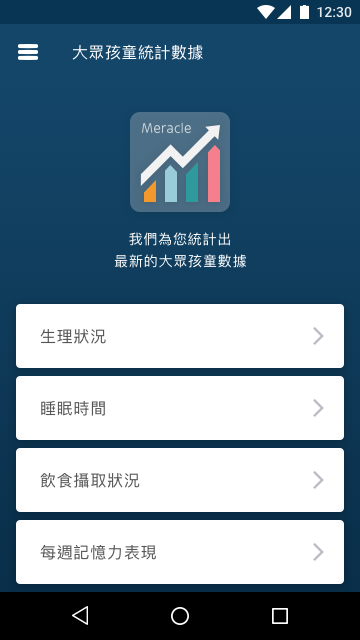
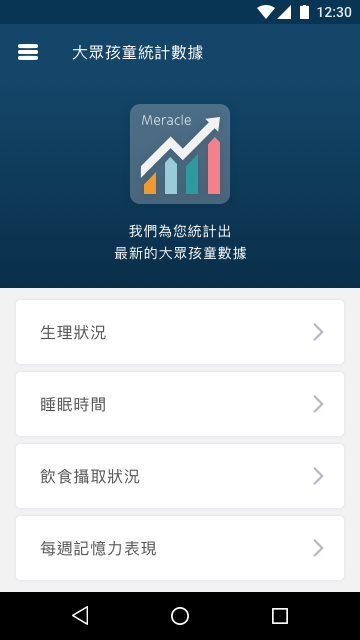
s

diff --git a/page_public/index.html b/page_public/index.html
@@ -1656,7 +1656,7 @@ I18N['zh-tw'] = {
     init.prototype = SMApp.fn;
     window.SMApp = SMApp;
 })(window);
-$(function(){ SMApp({"scale":"1","unit":"px","colorFormat":"color-hex","artboards":[{"layers":[{"objectID":"83045C19-1796-460F-8B21-374DA685168A","type":"shape","name":"bg_darkBlue","rect":{"x":0,"y":80,"width":360,"height":512},"rotation":0,"radius":0,"borders":[],"fills":[{"fillType":"gradient","gradient":{"type":"linear","from":{"x":0.463243305683136,"y":0},"to":{"x":0.46324329922059615,"y":1.044392124421861},"colorStops":[{"color":{"r":20,"g":70,"b":105,"a":1,"color-hex":"#144669 100%","argb-hex":"#FF144669","css-rgba":"rgba(20,70,105,1)","ui-color":"(r:0.08 g:0.27 b:0.41 a:1.00)"},"position":0},{"color":{"r":9,"g":45,"b":71,"a":1,"color-hex":"#092D47 100%","argb-hex":"#FF092D47","css-rgba":"rgba(9,45,71,1)","ui-color":"(r:0.03 g:0.18 b:0.28 a:1.00)"},"position":1}]}}],"shadows":[],"opacity":1,"styleName":"","css":["background-image: linear-gradient(-180deg, #144669 0%, #092D47 100%);"]},{"objectID":"A15F91AF-730A-4074-A24E-D45C4149D91A","type":"symbol","name":"Bar/Header","rect":{"x":0,"y":24,"width":360,"height":56},"rotation":0,"radius":0,"borders":[],"fills":[],"shadows":[],"opacity":1,"styleName":""},{"objectID":"F7567344-B48B-42DA-A3CC-50CE141C64CD","type":"shape","name":"bg","rect":{"x":0,"y":24,"width":360,"height":56},"rotation":0,"radius":0,"borders":[],"fills":[{"fillType":"color","color":{"r":20,"g":70,"b":105,"a":1,"color-hex":"#144669 100%","argb-hex":"#FF144669","css-rgba":"rgba(20,70,105,1)","ui-color":"(r:0.08 g:0.27 b:0.41 a:1.00)"}}],"shadows":[],"opacity":1,"styleName":"","css":["background: #144669;"]},{"objectID":"7633D35D-9322-4228-9C07-ACD3E6F8156D","type":"symbol","name":"Left Icon","rect":{"x":16,"y":40,"width":24,"height":24},"rotation":0,"radius":0,"borders":[],"fills":[],"shadows":[],"opacity":1,"styleName":"","exportable":[{"name":"Icon/menu","format":"png","path":"Icon/menu.png"}]},{"objectID":"CC57C13F-2C1C-4E02-B459-765E72797C45","type":"text","name":"Title","rect":{"x":72,"y":40,"width":132,"height":24},"rotation":0,"radius":0,"borders":[],"fills":[],"shadows":[],"opacity":1,"styleName":"White/16px regular","content":"大眾孩童統計數據","color":{"r":255,"g":255,"b":255,"a":1,"color-hex":"#FFFFFF 100%","argb-hex":"#FFFFFFFF","css-rgba":"rgba(255,255,255,1)","ui-color":"(r:1.00 g:1.00 b:1.00 a:1.00)"},"fontSize":16,"fontFace":"Roboto-Regular","textAlign":"left","letterSpacing":0.5,"lineHeight":24,"css":["font-family: Roboto-Regular;","font-size: 16px;","color: #FFFFFF;","letter-spacing: 0.5px;","line-height: 24px;"]},{"objectID":"1D9038E2-0B4B-4B89-8FD6-5779EE9AC07C","type":"symbol","name":"Bars/Status bar","rect":{"x":0,"y":0,"width":360,"height":24},"rotation":0,"radius":0,"borders":[],"fills":[],"shadows":[],"opacity":1,"styleName":""},{"objectID":"92B9CC3F-C79D-4213-845D-358967D93061","type":"shape","name":"status bar bg","rect":{"x":0,"y":0,"width":360,"height":24},"rotation":0,"radius":0,"borders":[],"fills":[{"fillType":"color","color":{"r":9,"g":53,"b":84,"a":1,"color-hex":"#093554 100%","argb-hex":"#FF093554","css-rgba":"rgba(9,53,84,1)","ui-color":"(r:0.04 g:0.21 b:0.33 a:1.00)"}}],"shadows":[],"opacity":1,"styleName":"","css":["background: #093554;"]},{"objectID":"C721A454-854E-449C-85BC-A123A8EC1018","type":"text","name":"12:30","rect":{"x":316,"y":4,"width":36,"height":16},"rotation":0,"radius":0,"borders":[],"fills":[{"fillType":"color","color":{"r":255,"g":255,"b":255,"a":1,"color-hex":"#FFFFFF 100%","argb-hex":"#FFFFFFFF","css-rgba":"rgba(255,255,255,1)","ui-color":"(r:1.00 g:1.00 b:1.00 a:1.00)"}}],"shadows":[],"opacity":1,"styleName":"","content":"12:30","color":{"r":0,"g":0,"b":0,"a":1,"color-hex":"#000000 100%","argb-hex":"#FF000000","css-rgba":"rgba(0,0,0,1)","ui-color":"(r:0.00 g:0.00 b:0.00 a:1.00)"},"fontSize":14,"fontFace":"Roboto-Medium","textAlign":"right","letterSpacing":0,"lineHeight":16,"css":["font-family: Roboto-Medium;","font-size: 14px;","color: #000000;"]},{"objectID":"EA577749-950A-4B95-AE91-1471809E4D5C","type":"shape","name":"bounds","rect":{"x":297,"y":4,"width":16,"height":16},"rotation":0,"radius":0,"borders":[],"fills":[],"shadows":[],"opacity":1,"styleName":""},{"objectID":"04509B03-1C82-4E70-A60B-563CB5EFDEED","type":"shape","name":"Shape","rect":{"x":300,"y":5,"width":9,"height":14},"rotation":0,"radius":0,"borders":[],"fills":[{"fillType":"color","color":{"r":255,"g":255,"b":255,"a":1,"color-hex":"#FFFFFF 100%","argb-hex":"#FFFFFFFF","css-rgba":"rgba(255,255,255,1)","ui-color":"(r:1.00 g:1.00 b:1.00 a:1.00)"}}],"shadows":[],"opacity":1,"styleName":"","css":["background: #FFFFFF;"]},{"objectID":"7EBD03E0-7CF8-4DF4-84D6-87FC9A84FB1E","type":"shape","name":"bounds","rect":{"x":277,"y":4,"width":16,"height":16},"rotation":0,"radius":0,"borders":[],"fills":[],"shadows":[],"opacity":1,"styleName":""},{"objectID":"CBB32A07-0D54-40D4-A69F-2B64CBF676E5","type":"shape","name":"Shape","rect":{"x":277,"y":5,"width":14,"height":14},"rotation":0,"radius":0,"borders":[],"fills":[{"fillType":"color","color":{"r":255,"g":255,"b":255,"a":1,"color-hex":"#FFFFFF 100%","argb-hex":"#FFFFFFFF","css-rgba":"rgba(255,255,255,1)","ui-color":"(r:1.00 g:1.00 b:1.00 a:1.00)"}}],"shadows":[],"opacity":1,"styleName":"","css":["background: #FFFFFF;"]},{"objectID":"1C63ECF8-A21C-468D-A2E0-36C0B9689898","type":"shape","name":"bounds","rect":{"x":258,"y":4,"width":16,"height":16},"rotation":0,"radius":0,"borders":[],"fills":[],"shadows":[],"opacity":1,"styleName":""},{"objectID":"7A5D021E-5761-4B5B-A926-8A58D348CA3B","type":"shape","name":"Shape","rect":{"x":257,"y":5,"width":18,"height":14},"rotation":0,"radius":0,"borders":[],"fills":[{"fillType":"color","color":{"r":255,"g":255,"b":255,"a":1,"color-hex":"#FFFFFF 100%","argb-hex":"#FFFFFFFF","css-rgba":"rgba(255,255,255,1)","ui-color":"(r:1.00 g:1.00 b:1.00 a:1.00)"}}],"shadows":[],"opacity":1,"styleName":"","css":["background: #FFFFFF;"]},{"objectID":"C77BD0D6-963F-44D7-956D-10485FE57C9B","type":"slice","name":"logo","rect":{"x":130,"y":112,"width":100,"height":100},"exportable":[{"name":"logo","format":"png","path":"logo.png"}]},{"objectID":"40407976-F652-427E-B751-6480BF07EBBD","type":"text","name":"我們為您統計出 最新的大眾孩童數據","rect":{"x":114,"y":228,"width":133,"height":44},"rotation":0,"radius":0,"borders":[],"fills":[],"shadows":[],"opacity":1,"styleName":"","content":"我們為您統計出\n最新的大眾孩童數據","color":{"r":255,"g":255,"b":255,"a":1,"color-hex":"#FFFFFF 100%","argb-hex":"#FFFFFFFF","css-rgba":"rgba(255,255,255,1)","ui-color":"(r:1.00 g:1.00 b:1.00 a:1.00)"},"fontSize":14,"fontFace":"PingFangTC-Regular","textAlign":"center","letterSpacing":0.800000011920929,"lineHeight":22,"css":["font-family: PingFangTC-Regular;","font-size: 14px;","color: #FFFFFF;","letter-spacing: 0.8px;","line-height: 22px;"]},{"objectID":"2868F988-7A5F-4BA3-833B-8724A23B7C74","type":"shape","name":"Bg_white","rect":{"x":16,"y":304,"width":328,"height":64},"rotation":0,"radius":4,"borders":[],"fills":[{"fillType":"color","color":{"r":255,"g":255,"b":255,"a":1,"color-hex":"#FFFFFF 100%","argb-hex":"#FFFFFFFF","css-rgba":"rgba(255,255,255,1)","ui-color":"(r:1.00 g:1.00 b:1.00 a:1.00)"}}],"shadows":[{"type":"outer","offsetX":0,"offsetY":1,"blurRadius":8,"spread":0,"color":{"r":0,"g":0,"b":0,"a":0.25,"color-hex":"#000000 25%","argb-hex":"#40000000","css-rgba":"rgba(0,0,0,0.25)","ui-color":"(r:0.00 g:0.00 b:0.00 a:0.25)"}}],"opacity":1,"styleName":"","css":["background: #FFFFFF;","box-shadow: 0 1px 8px 0 rgba(0,0,0,0.25);","border-radius: 4px;"]},{"objectID":"FA62EC78-876C-4F2A-BC1C-7BB86B0B6639","type":"symbol","name":"Icon/arrow","rect":{"x":308,"y":326,"width":20,"height":20},"rotation":0,"radius":0,"borders":[],"fills":[],"shadows":[],"opacity":0.5,"styleName":"","css":["opacity: 0.5;"],"exportable":[{"name":"Icon/arrow_gray","format":"png","path":"Icon/arrow_gray.png"}]},{"objectID":"8F0327BF-8727-42B0-B9F8-931CD81E6488","type":"text","name":"生理狀況","rect":{"x":40,"y":322,"width":67,"height":28},"rotation":0,"radius":0,"borders":[],"fills":[],"shadows":[],"opacity":1,"styleName":"","content":"生理狀況","color":{"r":85,"g":85,"b":85,"a":1,"color-hex":"#555555 100%","argb-hex":"#FF555555","css-rgba":"rgba(85,85,85,1)","ui-color":"(r:0.33 g:0.33 b:0.33 a:1.00)"},"fontSize":16,"fontFace":"Roboto-Regular","textAlign":"left","letterSpacing":0.800000011920929,"lineHeight":28,"css":["font-family: Roboto-Regular;","font-size: 16px;","color: #555555;","letter-spacing: 0.8px;","line-height: 28px;"]},{"objectID":"42AF091D-2C12-4D38-AF89-E0ED21E13B95","type":"shape","name":"Bg_white","rect":{"x":16,"y":376,"width":328,"height":64},"rotation":0,"radius":4,"borders":[],"fills":[{"fillType":"color","color":{"r":255,"g":255,"b":255,"a":1,"color-hex":"#FFFFFF 100%","argb-hex":"#FFFFFFFF","css-rgba":"rgba(255,255,255,1)","ui-color":"(r:1.00 g:1.00 b:1.00 a:1.00)"}}],"shadows":[{"type":"outer","offsetX":0,"offsetY":1,"blurRadius":8,"spread":0,"color":{"r":0,"g":0,"b":0,"a":0.25,"color-hex":"#000000 25%","argb-hex":"#40000000","css-rgba":"rgba(0,0,0,0.25)","ui-color":"(r:0.00 g:0.00 b:0.00 a:0.25)"}}],"opacity":1,"styleName":"","css":["background: #FFFFFF;","box-shadow: 0 1px 8px 0 rgba(0,0,0,0.25);","border-radius: 4px;"]},{"objectID":"FA62EC78-876C-4F2A-BC1C-7BB86B0B6639","type":"symbol","name":"Icon/arrow","rect":{"x":308,"y":398,"width":20,"height":20},"rotation":0,"radius":0,"borders":[],"fills":[],"shadows":[],"opacity":0.5,"styleName":"","css":["opacity: 0.5;"],"exportable":[{"name":"Icon/arrow_gray","format":"png","path":"Icon/arrow_gray.png"}]},{"objectID":"8B561EDD-7EC6-4B91-AB26-ABED9B088732","type":"text","name":"睡眠時間","rect":{"x":40,"y":394,"width":68,"height":28},"rotation":0,"radius":0,"borders":[],"fills":[],"shadows":[],"opacity":1,"styleName":"","content":"睡眠時間","color":{"r":85,"g":85,"b":85,"a":1,"color-hex":"#555555 100%","argb-hex":"#FF555555","css-rgba":"rgba(85,85,85,1)","ui-color":"(r:0.33 g:0.33 b:0.33 a:1.00)"},"fontSize":16,"fontFace":"PingFangTC-Regular","textAlign":"left","letterSpacing":0.800000011920929,"lineHeight":28,"css":["font-family: PingFangTC-Regular;","font-size: 16px;","color: #555555;","letter-spacing: 0.8px;","line-height: 28px;"]},{"objectID":"064F64DB-C213-42A8-8EAD-833A1D33944C","type":"shape","name":"Bg_white","rect":{"x":16,"y":448,"width":328,"height":64},"rotation":0,"radius":4,"borders":[],"fills":[{"fillType":"color","color":{"r":255,"g":255,"b":255,"a":1,"color-hex":"#FFFFFF 100%","argb-hex":"#FFFFFFFF","css-rgba":"rgba(255,255,255,1)","ui-color":"(r:1.00 g:1.00 b:1.00 a:1.00)"}}],"shadows":[{"type":"outer","offsetX":0,"offsetY":1,"blurRadius":8,"spread":0,"color":{"r":0,"g":0,"b":0,"a":0.25,"color-hex":"#000000 25%","argb-hex":"#40000000","css-rgba":"rgba(0,0,0,0.25)","ui-color":"(r:0.00 g:0.00 b:0.00 a:0.25)"}}],"opacity":1,"styleName":"","css":["background: #FFFFFF;","box-shadow: 0 1px 8px 0 rgba(0,0,0,0.25);","border-radius: 4px;"]},{"objectID":"FA62EC78-876C-4F2A-BC1C-7BB86B0B6639","type":"symbol","name":"Icon/arrow","rect":{"x":308,"y":470,"width":20,"height":20},"rotation":0,"radius":0,"borders":[],"fills":[],"shadows":[],"opacity":0.5,"styleName":"","css":["opacity: 0.5;"],"exportable":[{"name":"Icon/arrow_gray","format":"png","path":"Icon/arrow_gray.png"}]},{"objectID":"9E14A6C8-799E-419E-A6A5-F54C0B76CCD2","type":"text","name":"飲食攝取狀況","rect":{"x":40,"y":466,"width":101,"height":28},"rotation":0,"radius":0,"borders":[],"fills":[],"shadows":[],"opacity":1,"styleName":"","content":"飲食攝取狀況","color":{"r":85,"g":85,"b":85,"a":1,"color-hex":"#555555 100%","argb-hex":"#FF555555","css-rgba":"rgba(85,85,85,1)","ui-color":"(r:0.33 g:0.33 b:0.33 a:1.00)"},"fontSize":16,"fontFace":"PingFangTC-Regular","textAlign":"left","letterSpacing":0.800000011920929,"lineHeight":28,"css":["font-family: PingFangTC-Regular;","font-size: 16px;","color: #555555;","letter-spacing: 0.8px;","line-height: 28px;"]},{"objectID":"4D587D8A-DF53-427A-9370-A1EB6244D91D","type":"shape","name":"Bg_white","rect":{"x":16,"y":520,"width":328,"height":64},"rotation":0,"radius":4,"borders":[],"fills":[{"fillType":"color","color":{"r":255,"g":255,"b":255,"a":1,"color-hex":"#FFFFFF 100%","argb-hex":"#FFFFFFFF","css-rgba":"rgba(255,255,255,1)","ui-color":"(r:1.00 g:1.00 b:1.00 a:1.00)"}}],"shadows":[{"type":"outer","offsetX":0,"offsetY":1,"blurRadius":8,"spread":0,"color":{"r":0,"g":0,"b":0,"a":0.25,"color-hex":"#000000 25%","argb-hex":"#40000000","css-rgba":"rgba(0,0,0,0.25)","ui-color":"(r:0.00 g:0.00 b:0.00 a:0.25)"}}],"opacity":1,"styleName":"","css":["background: #FFFFFF;","box-shadow: 0 1px 8px 0 rgba(0,0,0,0.25);","border-radius: 4px;"]},{"objectID":"FA62EC78-876C-4F2A-BC1C-7BB86B0B6639","type":"symbol","name":"Icon/arrow","rect":{"x":308,"y":542,"width":20,"height":20},"rotation":0,"radius":0,"borders":[],"fills":[],"shadows":[],"opacity":0.5,"styleName":"","css":["opacity: 0.5;"],"exportable":[{"name":"Icon/arrow_gray","format":"png","path":"Icon/arrow_gray.png"}]},{"objectID":"AD5B1A65-7499-47D9-BFF6-F38843BDE78C","type":"text","name":"每週記憶力表現","rect":{"x":40,"y":538,"width":118,"height":28},"rotation":0,"radius":0,"borders":[],"fills":[],"shadows":[],"opacity":1,"styleName":"","content":"每週記憶力表現","color":{"r":85,"g":85,"b":85,"a":1,"color-hex":"#555555 100%","argb-hex":"#FF555555","css-rgba":"rgba(85,85,85,1)","ui-color":"(r:0.33 g:0.33 b:0.33 a:1.00)"},"fontSize":16,"fontFace":"PingFangTC-Regular","textAlign":"left","letterSpacing":0.800000011920929,"lineHeight":28,"css":["font-family: PingFangTC-Regular;","font-size: 16px;","color: #555555;","letter-spacing: 0.8px;","line-height: 28px;"]},{"objectID":"13B55EF7-AB18-44F9-B30A-697294326846","type":"shape","name":"nav_bar","rect":{"x":0,"y":592,"width":360,"height":48},"rotation":0,"radius":0,"borders":[],"fills":[],"shadows":[],"opacity":1,"styleName":""}],"notes":[],"pageName":"Page 1","pageObjectID":"D526FE0C-BCEE-4C14-AAE0-85B6CF2F2B53","name":"03-detail1 copy","slug":"page-1-03-detail1-copy","objectID":"99BF4D40-0D8C-4F00-AC37-E6DEFFEDC8B7","width":360,"height":640,"imagePath":"preview/page-1-03-detail1-copy.png"}],"slices":[{"name":"Left Icon","objectID":"7633D35D-9322-4228-9C07-ACD3E6F8156D","rect":{"x":16,"y":40,"width":24,"height":24},"exportable":[{"name":"Icon/menu","format":"png","path":"Icon/menu.png"}]},{"name":"logo","objectID":"C77BD0D6-963F-44D7-956D-10485FE57C9B","rect":{"x":130,"y":112,"width":100,"height":100},"exportable":[{"name":"logo","format":"png","path":"logo.png"}]},{"name":"Icon/arrow","objectID":"FA62EC78-876C-4F2A-BC1C-7BB86B0B6639","rect":{"x":308,"y":326,"width":20,"height":20},"exportable":[{"name":"Icon/arrow_gray","format":"png","path":"Icon/arrow_gray.png"}]}],"colors":[]}) });
+$(function(){ SMApp({"scale":"1","unit":"px","colorFormat":"color-hex","artboards":[{"layers":[{"objectID":"6A2DCCDA-30A8-48F9-8A77-92BEEB7E11F4","type":"shape","name":"bg_darkBlue","rect":{"x":0,"y":80,"width":360,"height":208},"rotation":0,"radius":0,"borders":[],"fills":[{"fillType":"gradient","gradient":{"type":"linear","from":{"x":0.463243305683136,"y":0},"to":{"x":0.46324329922059615,"y":1.044392124421861},"colorStops":[{"color":{"r":20,"g":70,"b":105,"a":1,"color-hex":"#144669 100%","argb-hex":"#FF144669","css-rgba":"rgba(20,70,105,1)","ui-color":"(r:0.08 g:0.27 b:0.41 a:1.00)"},"position":0},{"color":{"r":9,"g":45,"b":71,"a":1,"color-hex":"#092D47 100%","argb-hex":"#FF092D47","css-rgba":"rgba(9,45,71,1)","ui-color":"(r:0.03 g:0.18 b:0.28 a:1.00)"},"position":1}]}}],"shadows":[{"type":"outer","offsetX":0,"offsetY":2,"blurRadius":5,"spread":0,"color":{"r":0,"g":0,"b":0,"a":0.2,"color-hex":"#000000 20%","argb-hex":"#33000000","css-rgba":"rgba(0,0,0,0.2)","ui-color":"(r:0.00 g:0.00 b:0.00 a:0.20)"}}],"opacity":1,"styleName":"","css":["background-image: linear-gradient(-180deg, #144669 0%, #092D47 100%);","box-shadow: 0 2px 5px 0 rgba(0,0,0,0.20);"]},{"objectID":"A15F91AF-730A-4074-A24E-D45C4149D91A","type":"symbol","name":"Bar/Header","rect":{"x":0,"y":24,"width":360,"height":56},"rotation":0,"radius":0,"borders":[],"fills":[],"shadows":[],"opacity":1,"styleName":""},{"objectID":"F7567344-B48B-42DA-A3CC-50CE141C64CD","type":"shape","name":"bg","rect":{"x":0,"y":24,"width":360,"height":56},"rotation":0,"radius":0,"borders":[],"fills":[{"fillType":"color","color":{"r":20,"g":70,"b":105,"a":1,"color-hex":"#144669 100%","argb-hex":"#FF144669","css-rgba":"rgba(20,70,105,1)","ui-color":"(r:0.08 g:0.27 b:0.41 a:1.00)"}}],"shadows":[],"opacity":1,"styleName":"","css":["background: #144669;"]},{"objectID":"7633D35D-9322-4228-9C07-ACD3E6F8156D","type":"symbol","name":"Left Icon","rect":{"x":16,"y":40,"width":24,"height":24},"rotation":0,"radius":0,"borders":[],"fills":[],"shadows":[],"opacity":1,"styleName":"","exportable":[{"name":"Icon/menu","format":"png","path":"Icon/menu.png"}]},{"objectID":"CC57C13F-2C1C-4E02-B459-765E72797C45","type":"text","name":"Title","rect":{"x":72,"y":40,"width":132,"height":24},"rotation":0,"radius":0,"borders":[],"fills":[],"shadows":[],"opacity":1,"styleName":"White/16px regular","content":"大眾孩童統計數據","color":{"r":255,"g":255,"b":255,"a":1,"color-hex":"#FFFFFF 100%","argb-hex":"#FFFFFFFF","css-rgba":"rgba(255,255,255,1)","ui-color":"(r:1.00 g:1.00 b:1.00 a:1.00)"},"fontSize":16,"fontFace":"Roboto-Regular","textAlign":"left","letterSpacing":0.5,"lineHeight":24,"css":["font-family: Roboto-Regular;","font-size: 16px;","color: #FFFFFF;","letter-spacing: 0.5px;","line-height: 24px;"]},{"objectID":"1D9038E2-0B4B-4B89-8FD6-5779EE9AC07C","type":"symbol","name":"Bars/Status bar","rect":{"x":0,"y":0,"width":360,"height":24},"rotation":0,"radius":0,"borders":[],"fills":[],"shadows":[],"opacity":1,"styleName":""},{"objectID":"92B9CC3F-C79D-4213-845D-358967D93061","type":"shape","name":"status bar bg","rect":{"x":0,"y":0,"width":360,"height":24},"rotation":0,"radius":0,"borders":[],"fills":[{"fillType":"color","color":{"r":9,"g":53,"b":84,"a":1,"color-hex":"#093554 100%","argb-hex":"#FF093554","css-rgba":"rgba(9,53,84,1)","ui-color":"(r:0.04 g:0.21 b:0.33 a:1.00)"}}],"shadows":[],"opacity":1,"styleName":"","css":["background: #093554;"]},{"objectID":"C721A454-854E-449C-85BC-A123A8EC1018","type":"text","name":"12:30","rect":{"x":316,"y":4,"width":36,"height":16},"rotation":0,"radius":0,"borders":[],"fills":[{"fillType":"color","color":{"r":255,"g":255,"b":255,"a":1,"color-hex":"#FFFFFF 100%","argb-hex":"#FFFFFFFF","css-rgba":"rgba(255,255,255,1)","ui-color":"(r:1.00 g:1.00 b:1.00 a:1.00)"}}],"shadows":[],"opacity":1,"styleName":"","content":"12:30","color":{"r":0,"g":0,"b":0,"a":1,"color-hex":"#000000 100%","argb-hex":"#FF000000","css-rgba":"rgba(0,0,0,1)","ui-color":"(r:0.00 g:0.00 b:0.00 a:1.00)"},"fontSize":14,"fontFace":"Roboto-Medium","textAlign":"right","letterSpacing":0,"lineHeight":16,"css":["font-family: Roboto-Medium;","font-size: 14px;","color: #000000;"]},{"objectID":"EA577749-950A-4B95-AE91-1471809E4D5C","type":"shape","name":"bounds","rect":{"x":297,"y":4,"width":16,"height":16},"rotation":0,"radius":0,"borders":[],"fills":[],"shadows":[],"opacity":1,"styleName":""},{"objectID":"04509B03-1C82-4E70-A60B-563CB5EFDEED","type":"shape","name":"Shape","rect":{"x":300,"y":5,"width":9,"height":14},"rotation":0,"radius":0,"borders":[],"fills":[{"fillType":"color","color":{"r":255,"g":255,"b":255,"a":1,"color-hex":"#FFFFFF 100%","argb-hex":"#FFFFFFFF","css-rgba":"rgba(255,255,255,1)","ui-color":"(r:1.00 g:1.00 b:1.00 a:1.00)"}}],"shadows":[],"opacity":1,"styleName":"","css":["background: #FFFFFF;"]},{"objectID":"7EBD03E0-7CF8-4DF4-84D6-87FC9A84FB1E","type":"shape","name":"bounds","rect":{"x":277,"y":4,"width":16,"height":16},"rotation":0,"radius":0,"borders":[],"fills":[],"shadows":[],"opacity":1,"styleName":""},{"objectID":"CBB32A07-0D54-40D4-A69F-2B64CBF676E5","type":"shape","name":"Shape","rect":{"x":277,"y":5,"width":14,"height":14},"rotation":0,"radius":0,"borders":[],"fills":[{"fillType":"color","color":{"r":255,"g":255,"b":255,"a":1,"color-hex":"#FFFFFF 100%","argb-hex":"#FFFFFFFF","css-rgba":"rgba(255,255,255,1)","ui-color":"(r:1.00 g:1.00 b:1.00 a:1.00)"}}],"shadows":[],"opacity":1,"styleName":"","css":["background: #FFFFFF;"]},{"objectID":"1C63ECF8-A21C-468D-A2E0-36C0B9689898","type":"shape","name":"bounds","rect":{"x":258,"y":4,"width":16,"height":16},"rotation":0,"radius":0,"borders":[],"fills":[],"shadows":[],"opacity":1,"styleName":""},{"objectID":"7A5D021E-5761-4B5B-A926-8A58D348CA3B","type":"shape","name":"Shape","rect":{"x":257,"y":5,"width":18,"height":14},"rotation":0,"radius":0,"borders":[],"fills":[{"fillType":"color","color":{"r":255,"g":255,"b":255,"a":1,"color-hex":"#FFFFFF 100%","argb-hex":"#FFFFFFFF","css-rgba":"rgba(255,255,255,1)","ui-color":"(r:1.00 g:1.00 b:1.00 a:1.00)"}}],"shadows":[],"opacity":1,"styleName":"","css":["background: #FFFFFF;"]},{"objectID":"E940EB03-44BB-4C09-947D-568AA046353A","type":"slice","name":"logo","rect":{"x":130,"y":104,"width":100,"height":100},"exportable":[{"name":"logo","format":"png","path":"logo.png"}]},{"objectID":"F523034F-8BC7-4351-9694-9F24A11ADCB4","type":"text","name":"我們為您統計出 最新的大眾孩童數據","rect":{"x":114,"y":220,"width":133,"height":44},"rotation":0,"radius":0,"borders":[],"fills":[],"shadows":[],"opacity":1,"styleName":"","content":"我們為您統計出\n最新的大眾孩童數據","color":{"r":255,"g":255,"b":255,"a":1,"color-hex":"#FFFFFF 100%","argb-hex":"#FFFFFFFF","css-rgba":"rgba(255,255,255,1)","ui-color":"(r:1.00 g:1.00 b:1.00 a:1.00)"},"fontSize":14,"fontFace":"PingFangTC-Regular","textAlign":"center","letterSpacing":0.800000011920929,"lineHeight":22,"css":["font-family: PingFangTC-Regular;","font-size: 14px;","color: #FFFFFF;","letter-spacing: 0.8px;","line-height: 22px;"]},{"objectID":"D0A2198E-1186-43DF-BEC7-29D1DD6C88FA","type":"shape","name":"Bg_white","rect":{"x":16,"y":300,"width":328,"height":64},"rotation":0,"radius":4,"borders":[{"fillType":"color","position":"outside","thickness":0.5,"color":{"r":224,"g":229,"b":237,"a":1,"color-hex":"#E0E5ED 100%","argb-hex":"#FFE0E5ED","css-rgba":"rgba(224,229,237,1)","ui-color":"(r:0.88 g:0.90 b:0.93 a:1.00)"}}],"fills":[{"fillType":"color","color":{"r":255,"g":255,"b":255,"a":1,"color-hex":"#FFFFFF 100%","argb-hex":"#FFFFFFFF","css-rgba":"rgba(255,255,255,1)","ui-color":"(r:1.00 g:1.00 b:1.00 a:1.00)"}}],"shadows":[{"type":"outer","offsetX":0,"offsetY":0,"blurRadius":4,"spread":0,"color":{"r":230,"g":230,"b":230,"a":1,"color-hex":"#E6E6E6 100%","argb-hex":"#FFE6E6E6","css-rgba":"rgba(230,230,230,1)","ui-color":"(r:0.90 g:0.90 b:0.90 a:1.00)"}}],"opacity":1,"styleName":"","css":["background: #FFFFFF;","border: 0 solid #E0E5ED;","box-shadow: 0 0 4px 0 #E6E6E6;","border-radius: 4px;"]},{"objectID":"FA62EC78-876C-4F2A-BC1C-7BB86B0B6639","type":"symbol","name":"Icon/arrow","rect":{"x":308,"y":322,"width":20,"height":20},"rotation":0,"radius":0,"borders":[],"fills":[],"shadows":[],"opacity":0.5,"styleName":"","css":["opacity: 0.5;"],"exportable":[{"name":"Icon/arrow_gray","format":"png","path":"Icon/arrow_gray.png"}]},{"objectID":"51008D9E-F3E6-47DA-A598-6B2A9D0656FF","type":"text","name":"生理狀況","rect":{"x":40,"y":318,"width":67,"height":28},"rotation":0,"radius":0,"borders":[],"fills":[],"shadows":[],"opacity":1,"styleName":"","content":"生理狀況","color":{"r":85,"g":85,"b":85,"a":1,"color-hex":"#555555 100%","argb-hex":"#FF555555","css-rgba":"rgba(85,85,85,1)","ui-color":"(r:0.33 g:0.33 b:0.33 a:1.00)"},"fontSize":16,"fontFace":"Roboto-Regular","textAlign":"left","letterSpacing":0.800000011920929,"lineHeight":28,"css":["font-family: Roboto-Regular;","font-size: 16px;","color: #555555;","letter-spacing: 0.8px;","line-height: 28px;"]},{"objectID":"98BD2DF1-88E0-4CF2-B4D2-FF95ACED8A7A","type":"shape","name":"Bg_white","rect":{"x":16,"y":372,"width":328,"height":64},"rotation":0,"radius":4,"borders":[{"fillType":"color","position":"outside","thickness":0.5,"color":{"r":224,"g":229,"b":237,"a":1,"color-hex":"#E0E5ED 100%","argb-hex":"#FFE0E5ED","css-rgba":"rgba(224,229,237,1)","ui-color":"(r:0.88 g:0.90 b:0.93 a:1.00)"}}],"fills":[{"fillType":"color","color":{"r":255,"g":255,"b":255,"a":1,"color-hex":"#FFFFFF 100%","argb-hex":"#FFFFFFFF","css-rgba":"rgba(255,255,255,1)","ui-color":"(r:1.00 g:1.00 b:1.00 a:1.00)"}}],"shadows":[{"type":"outer","offsetX":0,"offsetY":0,"blurRadius":4,"spread":0,"color":{"r":230,"g":230,"b":230,"a":1,"color-hex":"#E6E6E6 100%","argb-hex":"#FFE6E6E6","css-rgba":"rgba(230,230,230,1)","ui-color":"(r:0.90 g:0.90 b:0.90 a:1.00)"}}],"opacity":1,"styleName":"","css":["background: #FFFFFF;","border: 0 solid #E0E5ED;","box-shadow: 0 0 4px 0 #E6E6E6;","border-radius: 4px;"]},{"objectID":"FA62EC78-876C-4F2A-BC1C-7BB86B0B6639","type":"symbol","name":"Icon/arrow","rect":{"x":308,"y":394,"width":20,"height":20},"rotation":0,"radius":0,"borders":[],"fills":[],"shadows":[],"opacity":0.5,"styleName":"","css":["opacity: 0.5;"],"exportable":[{"name":"Icon/arrow_gray","format":"png","path":"Icon/arrow_gray.png"}]},{"objectID":"54AA6566-1C59-48C8-A5F5-4D431F033211","type":"text","name":"睡眠時間","rect":{"x":40,"y":390,"width":68,"height":28},"rotation":0,"radius":0,"borders":[],"fills":[],"shadows":[],"opacity":1,"styleName":"","content":"睡眠時間","color":{"r":85,"g":85,"b":85,"a":1,"color-hex":"#555555 100%","argb-hex":"#FF555555","css-rgba":"rgba(85,85,85,1)","ui-color":"(r:0.33 g:0.33 b:0.33 a:1.00)"},"fontSize":16,"fontFace":"PingFangTC-Regular","textAlign":"left","letterSpacing":0.800000011920929,"lineHeight":28,"css":["font-family: PingFangTC-Regular;","font-size: 16px;","color: #555555;","letter-spacing: 0.8px;","line-height: 28px;"]},{"objectID":"0EFCE0B6-B383-4B63-A84E-1AAFADA16EF6","type":"shape","name":"Bg_white","rect":{"x":16,"y":444,"width":328,"height":64},"rotation":0,"radius":4,"borders":[{"fillType":"color","position":"outside","thickness":0.5,"color":{"r":224,"g":229,"b":237,"a":1,"color-hex":"#E0E5ED 100%","argb-hex":"#FFE0E5ED","css-rgba":"rgba(224,229,237,1)","ui-color":"(r:0.88 g:0.90 b:0.93 a:1.00)"}}],"fills":[{"fillType":"color","color":{"r":255,"g":255,"b":255,"a":1,"color-hex":"#FFFFFF 100%","argb-hex":"#FFFFFFFF","css-rgba":"rgba(255,255,255,1)","ui-color":"(r:1.00 g:1.00 b:1.00 a:1.00)"}}],"shadows":[{"type":"outer","offsetX":0,"offsetY":0,"blurRadius":4,"spread":0,"color":{"r":230,"g":230,"b":230,"a":1,"color-hex":"#E6E6E6 100%","argb-hex":"#FFE6E6E6","css-rgba":"rgba(230,230,230,1)","ui-color":"(r:0.90 g:0.90 b:0.90 a:1.00)"}}],"opacity":1,"styleName":"","css":["background: #FFFFFF;","border: 0 solid #E0E5ED;","box-shadow: 0 0 4px 0 #E6E6E6;","border-radius: 4px;"]},{"objectID":"FA62EC78-876C-4F2A-BC1C-7BB86B0B6639","type":"symbol","name":"Icon/arrow","rect":{"x":308,"y":466,"width":20,"height":20},"rotation":0,"radius":0,"borders":[],"fills":[],"shadows":[],"opacity":0.5,"styleName":"","css":["opacity: 0.5;"],"exportable":[{"name":"Icon/arrow_gray","format":"png","path":"Icon/arrow_gray.png"}]},{"objectID":"142B5115-7D86-4E23-9491-08C0AB7E95E4","type":"text","name":"飲食攝取狀況","rect":{"x":40,"y":462,"width":101,"height":28},"rotation":0,"radius":0,"borders":[],"fills":[],"shadows":[],"opacity":1,"styleName":"","content":"飲食攝取狀況","color":{"r":85,"g":85,"b":85,"a":1,"color-hex":"#555555 100%","argb-hex":"#FF555555","css-rgba":"rgba(85,85,85,1)","ui-color":"(r:0.33 g:0.33 b:0.33 a:1.00)"},"fontSize":16,"fontFace":"PingFangTC-Regular","textAlign":"left","letterSpacing":0.800000011920929,"lineHeight":28,"css":["font-family: PingFangTC-Regular;","font-size: 16px;","color: #555555;","letter-spacing: 0.8px;","line-height: 28px;"]},{"objectID":"D7EFE50E-A3CA-442F-9423-47DD46D5A5B7","type":"shape","name":"Bg_white","rect":{"x":16,"y":516,"width":328,"height":64},"rotation":0,"radius":4,"borders":[{"fillType":"color","position":"outside","thickness":0.5,"color":{"r":224,"g":229,"b":237,"a":1,"color-hex":"#E0E5ED 100%","argb-hex":"#FFE0E5ED","css-rgba":"rgba(224,229,237,1)","ui-color":"(r:0.88 g:0.90 b:0.93 a:1.00)"}}],"fills":[{"fillType":"color","color":{"r":255,"g":255,"b":255,"a":1,"color-hex":"#FFFFFF 100%","argb-hex":"#FFFFFFFF","css-rgba":"rgba(255,255,255,1)","ui-color":"(r:1.00 g:1.00 b:1.00 a:1.00)"}}],"shadows":[{"type":"outer","offsetX":0,"offsetY":0,"blurRadius":4,"spread":0,"color":{"r":230,"g":230,"b":230,"a":1,"color-hex":"#E6E6E6 100%","argb-hex":"#FFE6E6E6","css-rgba":"rgba(230,230,230,1)","ui-color":"(r:0.90 g:0.90 b:0.90 a:1.00)"}}],"opacity":1,"styleName":"","css":["background: #FFFFFF;","border: 0 solid #E0E5ED;","box-shadow: 0 0 4px 0 #E6E6E6;","border-radius: 4px;"]},{"objectID":"FA62EC78-876C-4F2A-BC1C-7BB86B0B6639","type":"symbol","name":"Icon/arrow","rect":{"x":308,"y":538,"width":20,"height":20},"rotation":0,"radius":0,"borders":[],"fills":[],"shadows":[],"opacity":0.5,"styleName":"","css":["opacity: 0.5;"],"exportable":[{"name":"Icon/arrow_gray","format":"png","path":"Icon/arrow_gray.png"}]},{"objectID":"CF56C47E-9AD8-4CF3-BEDC-006D8F28380A","type":"text","name":"每週記憶力表現","rect":{"x":40,"y":534,"width":118,"height":28},"rotation":0,"radius":0,"borders":[],"fills":[],"shadows":[],"opacity":1,"styleName":"","content":"每週記憶力表現","color":{"r":85,"g":85,"b":85,"a":1,"color-hex":"#555555 100%","argb-hex":"#FF555555","css-rgba":"rgba(85,85,85,1)","ui-color":"(r:0.33 g:0.33 b:0.33 a:1.00)"},"fontSize":16,"fontFace":"PingFangTC-Regular","textAlign":"left","letterSpacing":0.800000011920929,"lineHeight":28,"css":["font-family: PingFangTC-Regular;","font-size: 16px;","color: #555555;","letter-spacing: 0.8px;","line-height: 28px;"]},{"objectID":"E4A6B0BF-8C78-4E65-B8C9-033449066EDE","type":"shape","name":"nav_bar","rect":{"x":0,"y":592,"width":360,"height":48},"rotation":0,"radius":0,"borders":[],"fills":[],"shadows":[],"opacity":1,"styleName":""}],"notes":[],"pageName":"Page 1","pageObjectID":"D526FE0C-BCEE-4C14-AAE0-85B6CF2F2B53","name":"03-detail1 copy 3","slug":"page-1-03-detail1-copy-3","objectID":"1FAFA4B8-7D4E-40AF-ABB7-41FCD5B18461","width":360,"height":640,"imagePath":"preview/page-1-03-detail1-copy-3.png"}],"slices":[{"name":"Left Icon","objectID":"7633D35D-9322-4228-9C07-ACD3E6F8156D","rect":{"x":16,"y":40,"width":24,"height":24},"exportable":[{"name":"Icon/menu","format":"png","path":"Icon/menu.png"}]},{"name":"logo","objectID":"E940EB03-44BB-4C09-947D-568AA046353A","rect":{"x":130,"y":104,"width":100,"height":100},"exportable":[{"name":"logo","format":"png","path":"logo.png"}]},{"name":"Icon/arrow","objectID":"FA62EC78-876C-4F2A-BC1C-7BB86B0B6639","rect":{"x":308,"y":322,"width":20,"height":20},"exportable":[{"name":"Icon/arrow_gray","format":"png","path":"Icon/arrow_gray.png"}]}],"colors":[]}) });
     -->
     </script>
   </head>

diff --git a/page_public/links/page-1-03-detail1-copy-3.html b/page_public/links/page-1-03-detail1-copy-3.html
@@ -1,0 +1,1 @@
+<meta http-equiv="refresh" content="0;url=../index.html#artboard0">
